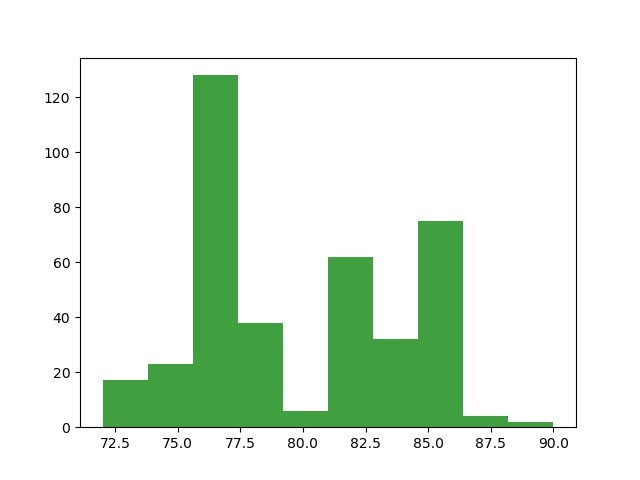
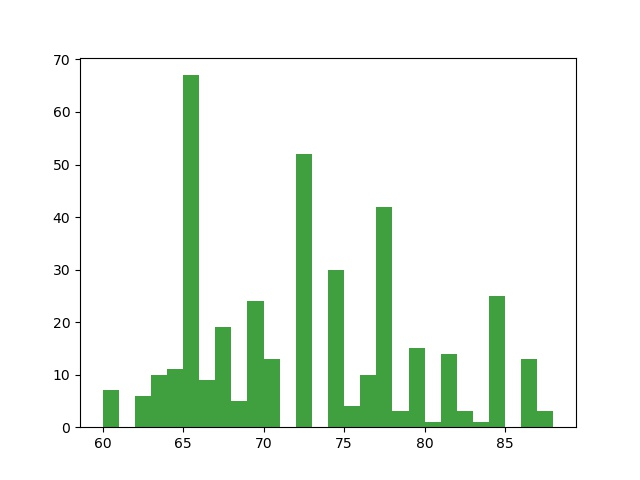
update result

diff --git a/img2MIDI/imageColor2MIDI.py b/img2MIDI/imageColor2MIDI.py
@@ -171,7 +171,7 @@ def imageColor2MIDI(image_path, interval, chord_progress_type):
         n, bins, patches = plt.hist(
             # bins: number of bars in histogram
             # alpha: opacity
-            root_notes, facecolor='green', alpha=0.75)
+            root_notes, bins=max(root_notes)-min(root_notes), facecolor='green', alpha=0.75)
         plt.savefig(
             './histogram/Histogram-RootNote-{}.jpg'.format(image_path.split('.')[0]))
         i = 0
